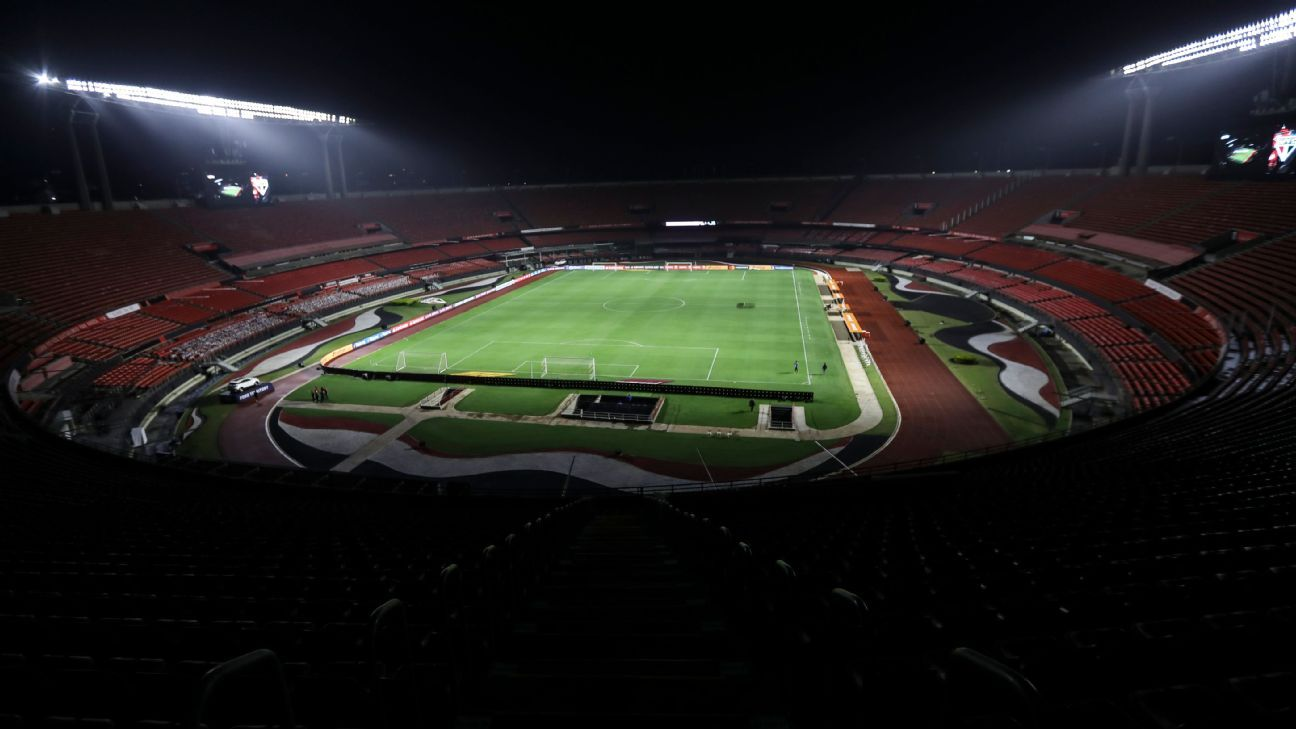
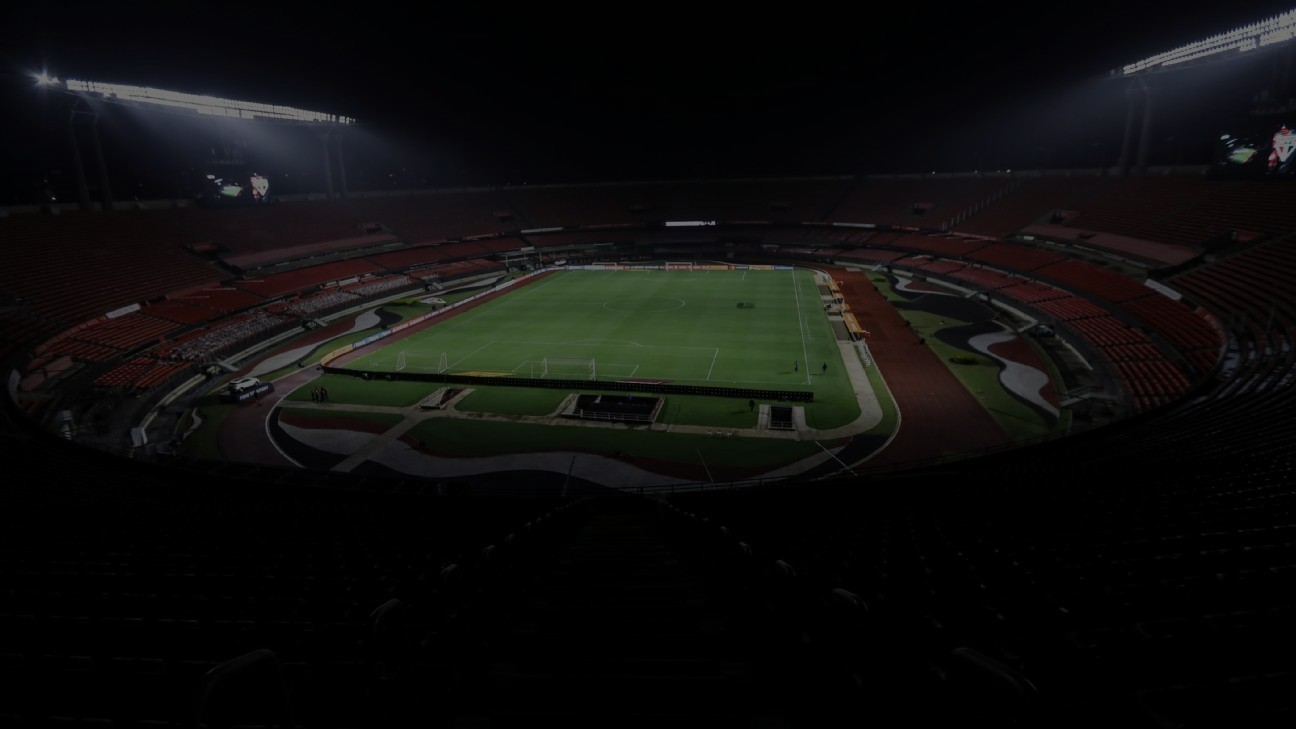
Criado o titulo da pagina socio

diff --git a/css/socio/navTitulo.css b/css/socio/navTitulo.css
@@ -1,0 +1,97 @@
+.socio-titulo-bg{
+    background: url('./../../assets/socio/murumbi.jpg') no-repeat center ;
+    background-size: cover;
+}
+
+.socio-titulo{
+    max-width: 900px;
+    margin: auto;
+    padding-top: 150px;
+    padding-bottom: 150px;
+    padding-left: 50px;
+    padding-right: 50px;
+    font-family: 'Poppins', sans-serif;
+}
+
+.socio-titulo img{
+    max-width: 100%;
+    width: 560px;
+    margin-bottom: 30px;
+}
+
+.socio-titulo p{
+    font-size: 1.5rem;
+    color: white;
+    font-weight: 800;
+    max-width: 45ch;
+    line-height: 1.1;
+    margin-bottom: 60px;
+}
+
+.socio-titulo p span{
+    color: #b11116;
+}
+
+.socio-titulo a{
+    background-color: #b11116;
+    color: white;
+    padding: 16px 32px;
+    text-decoration: none;
+    text-transform: uppercase;
+    font-style: italic;
+    font-weight: 800;
+}
+
+.socio-titulo a:hover{
+    background-color: #8a0b0f;
+}
+
+@media (max-width: 800px){
+    .socio-titulo{
+        padding-top: 80px;
+        padding-bottom: 80px;
+    }
+
+    .socio-titulo p{
+        font-size: 1.2rem;
+        max-width: 52ch;
+        margin-bottom: 40px;
+    }
+
+    .socio-titulo img{
+        max-width: 100%;
+        width: 560px;
+        margin-bottom: 10px;
+    }
+
+    @media (max-width: 550px){
+
+        .socio-titulo p{
+            font-size: 1rem;
+            max-width: 52ch;
+            margin-bottom: 40px;
+        }
+
+        .socio-titulo{
+            padding-left: 20px;
+            padding-right: 20px;
+        }
+    }
+
+    .socio-titulo p{
+        line-height: 1.2;
+    }
+}
+
+@media (max-width: 320px){
+    .socio-titulo a{
+        background-color: #b11116;
+        color: white;
+        padding: 12px 24px;
+        text-decoration: none;
+        text-transform: uppercase;
+        font-style: italic;
+        font-weight: 700;
+        font-size: .9rem;
+    }
+}

diff --git a/socio.html b/socio.html
@@ -23,5 +23,15 @@
             </div>
         </div>
     </header>
+    <article class="socio-titulo-bg">
+        <div class="socio-titulo">
+            <div><img src="./assets/socio/titulo.png" alt="Seja sócio torcedor"></div>
+            <p>GARANTA SEU LUGAR JUNTO À TORCIDA QUE CONDUZ O TIME,
+            CONCORRA A EXPERIÊNCIAS INESQUECÍVEIS,
+            TENHA ACESSO A VANTAGENS NA COMPRA DE INGRESSOS,
+            NA REDE DE PARCEIROS E MUITO MAIS. <span>///</span></p>
+            <a href="#">Seja Socio Torcedor</a>
+        </div>
+    </article>
 </body>
 </html>

diff --git a/css/style.css b/css/style.css
@@ -1,3 +1,6 @@
 @import url('https://fonts.googleapis.com/css2?family=Poppins:ital,wght@0,100;0,200;0,300;0,400;0,500;0,600;0,700;0,800;0,900;1,100;1,200;1,300;1,400;1,500;1,600;1,700;1,800;1,900&display=swap');
 @import './home/home.css';
-@import './socio/navSocio.css'
+
+/* Socio */
+@import './socio/navSocio.css';
+@import './socio/navTitulo.css'
